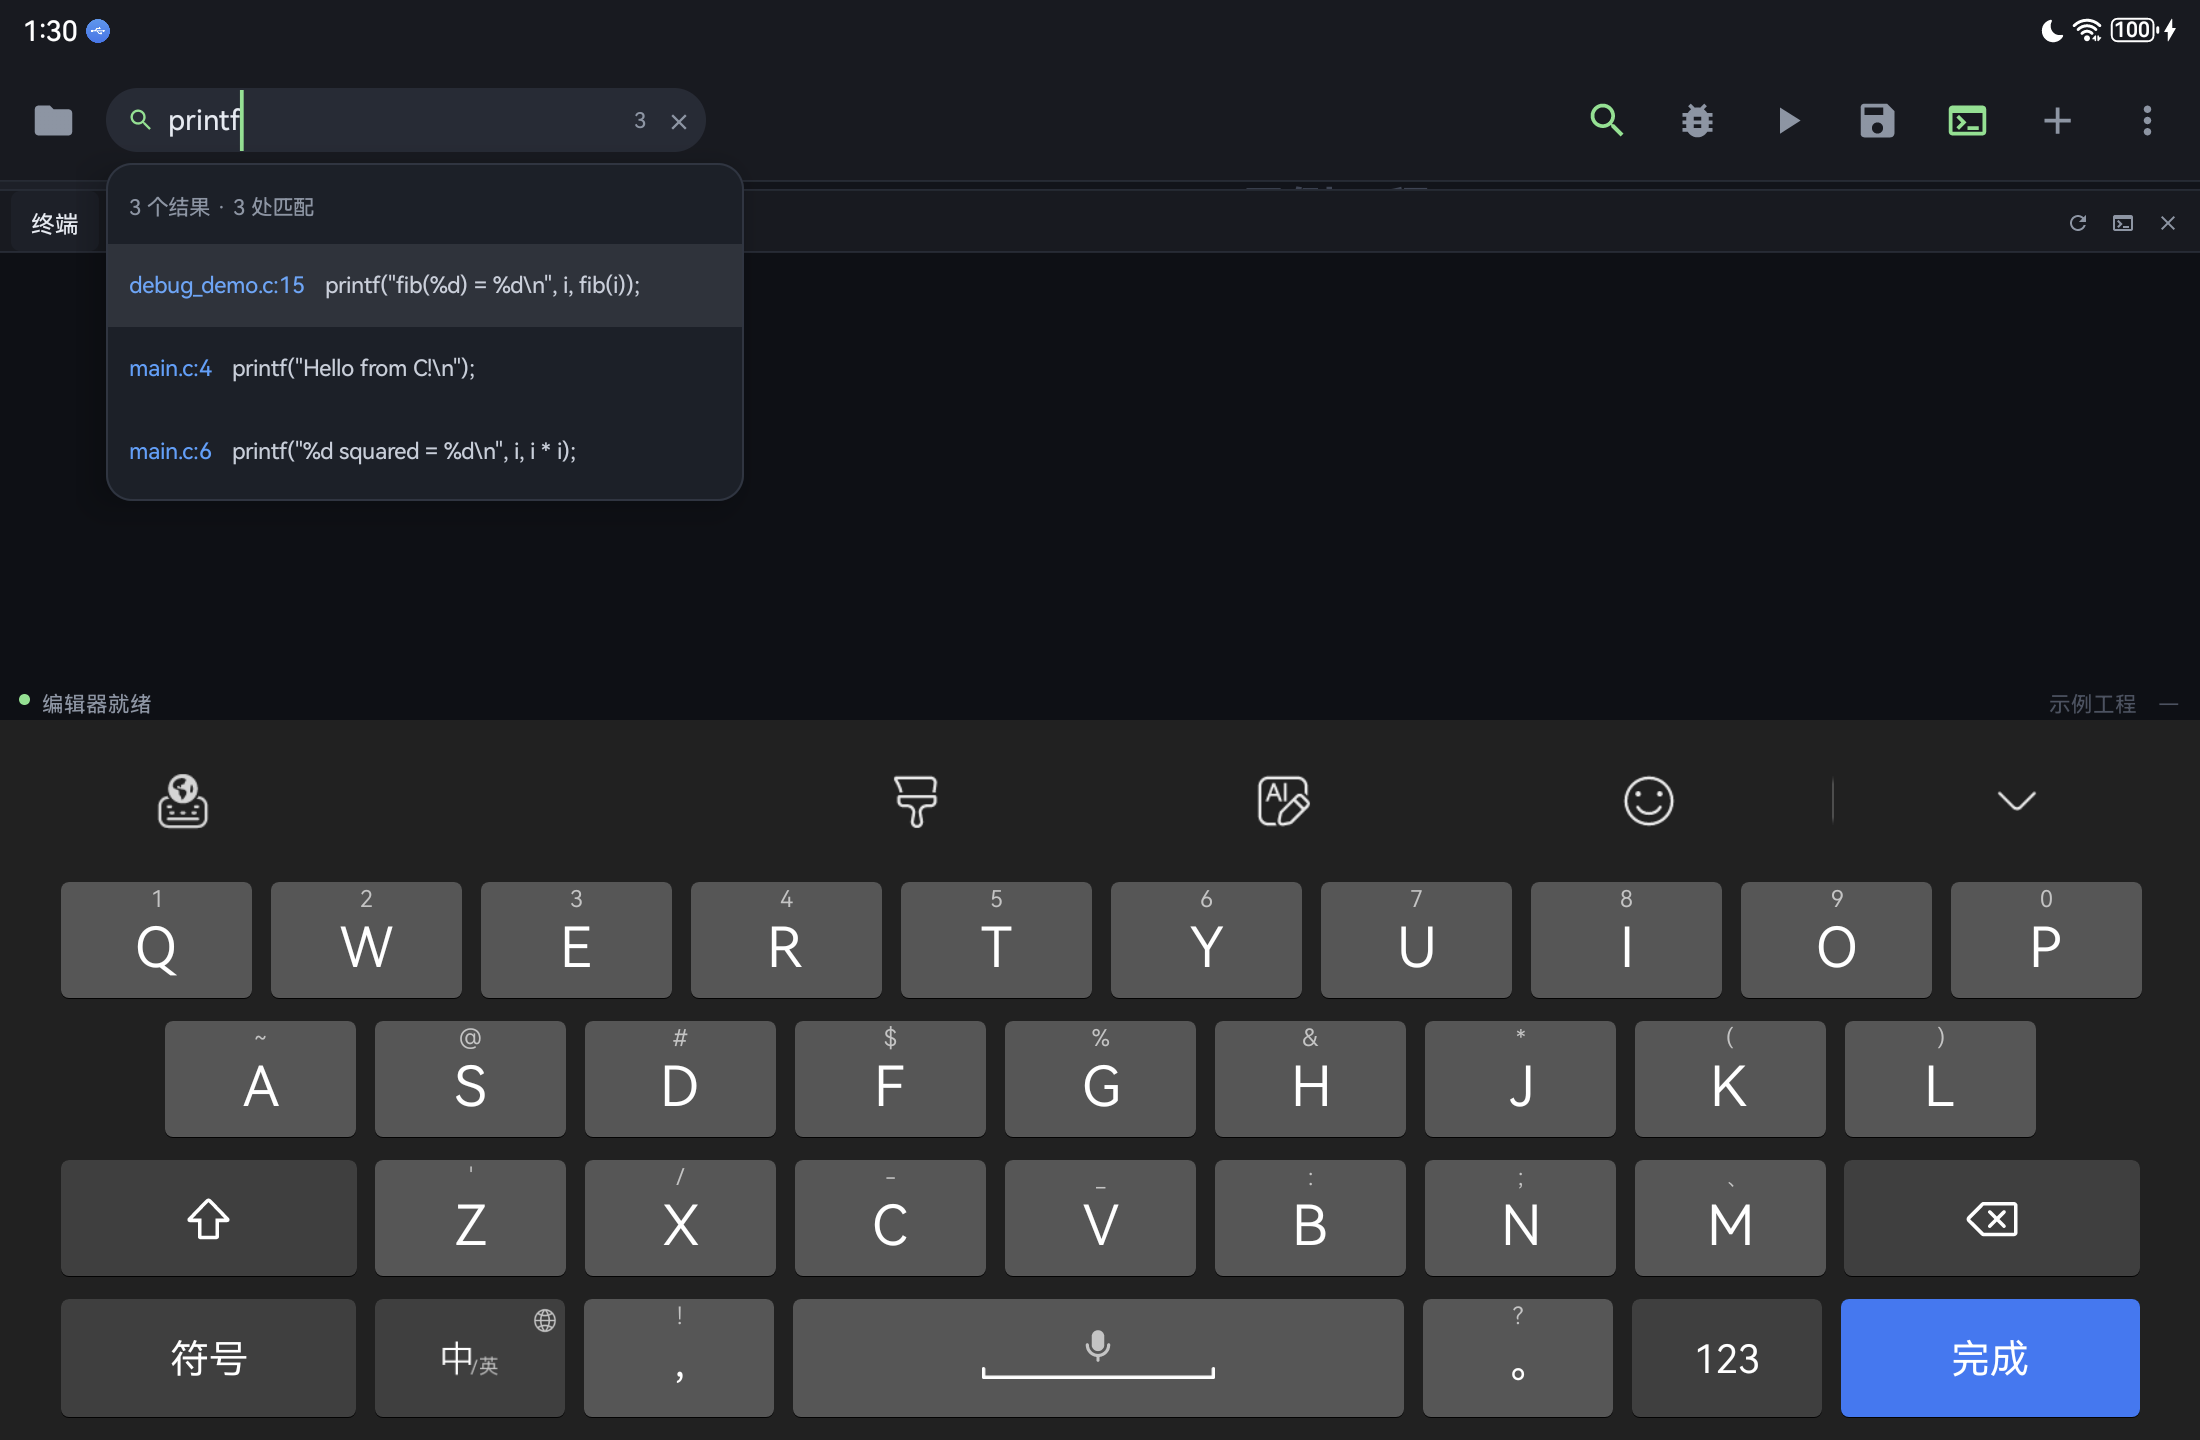
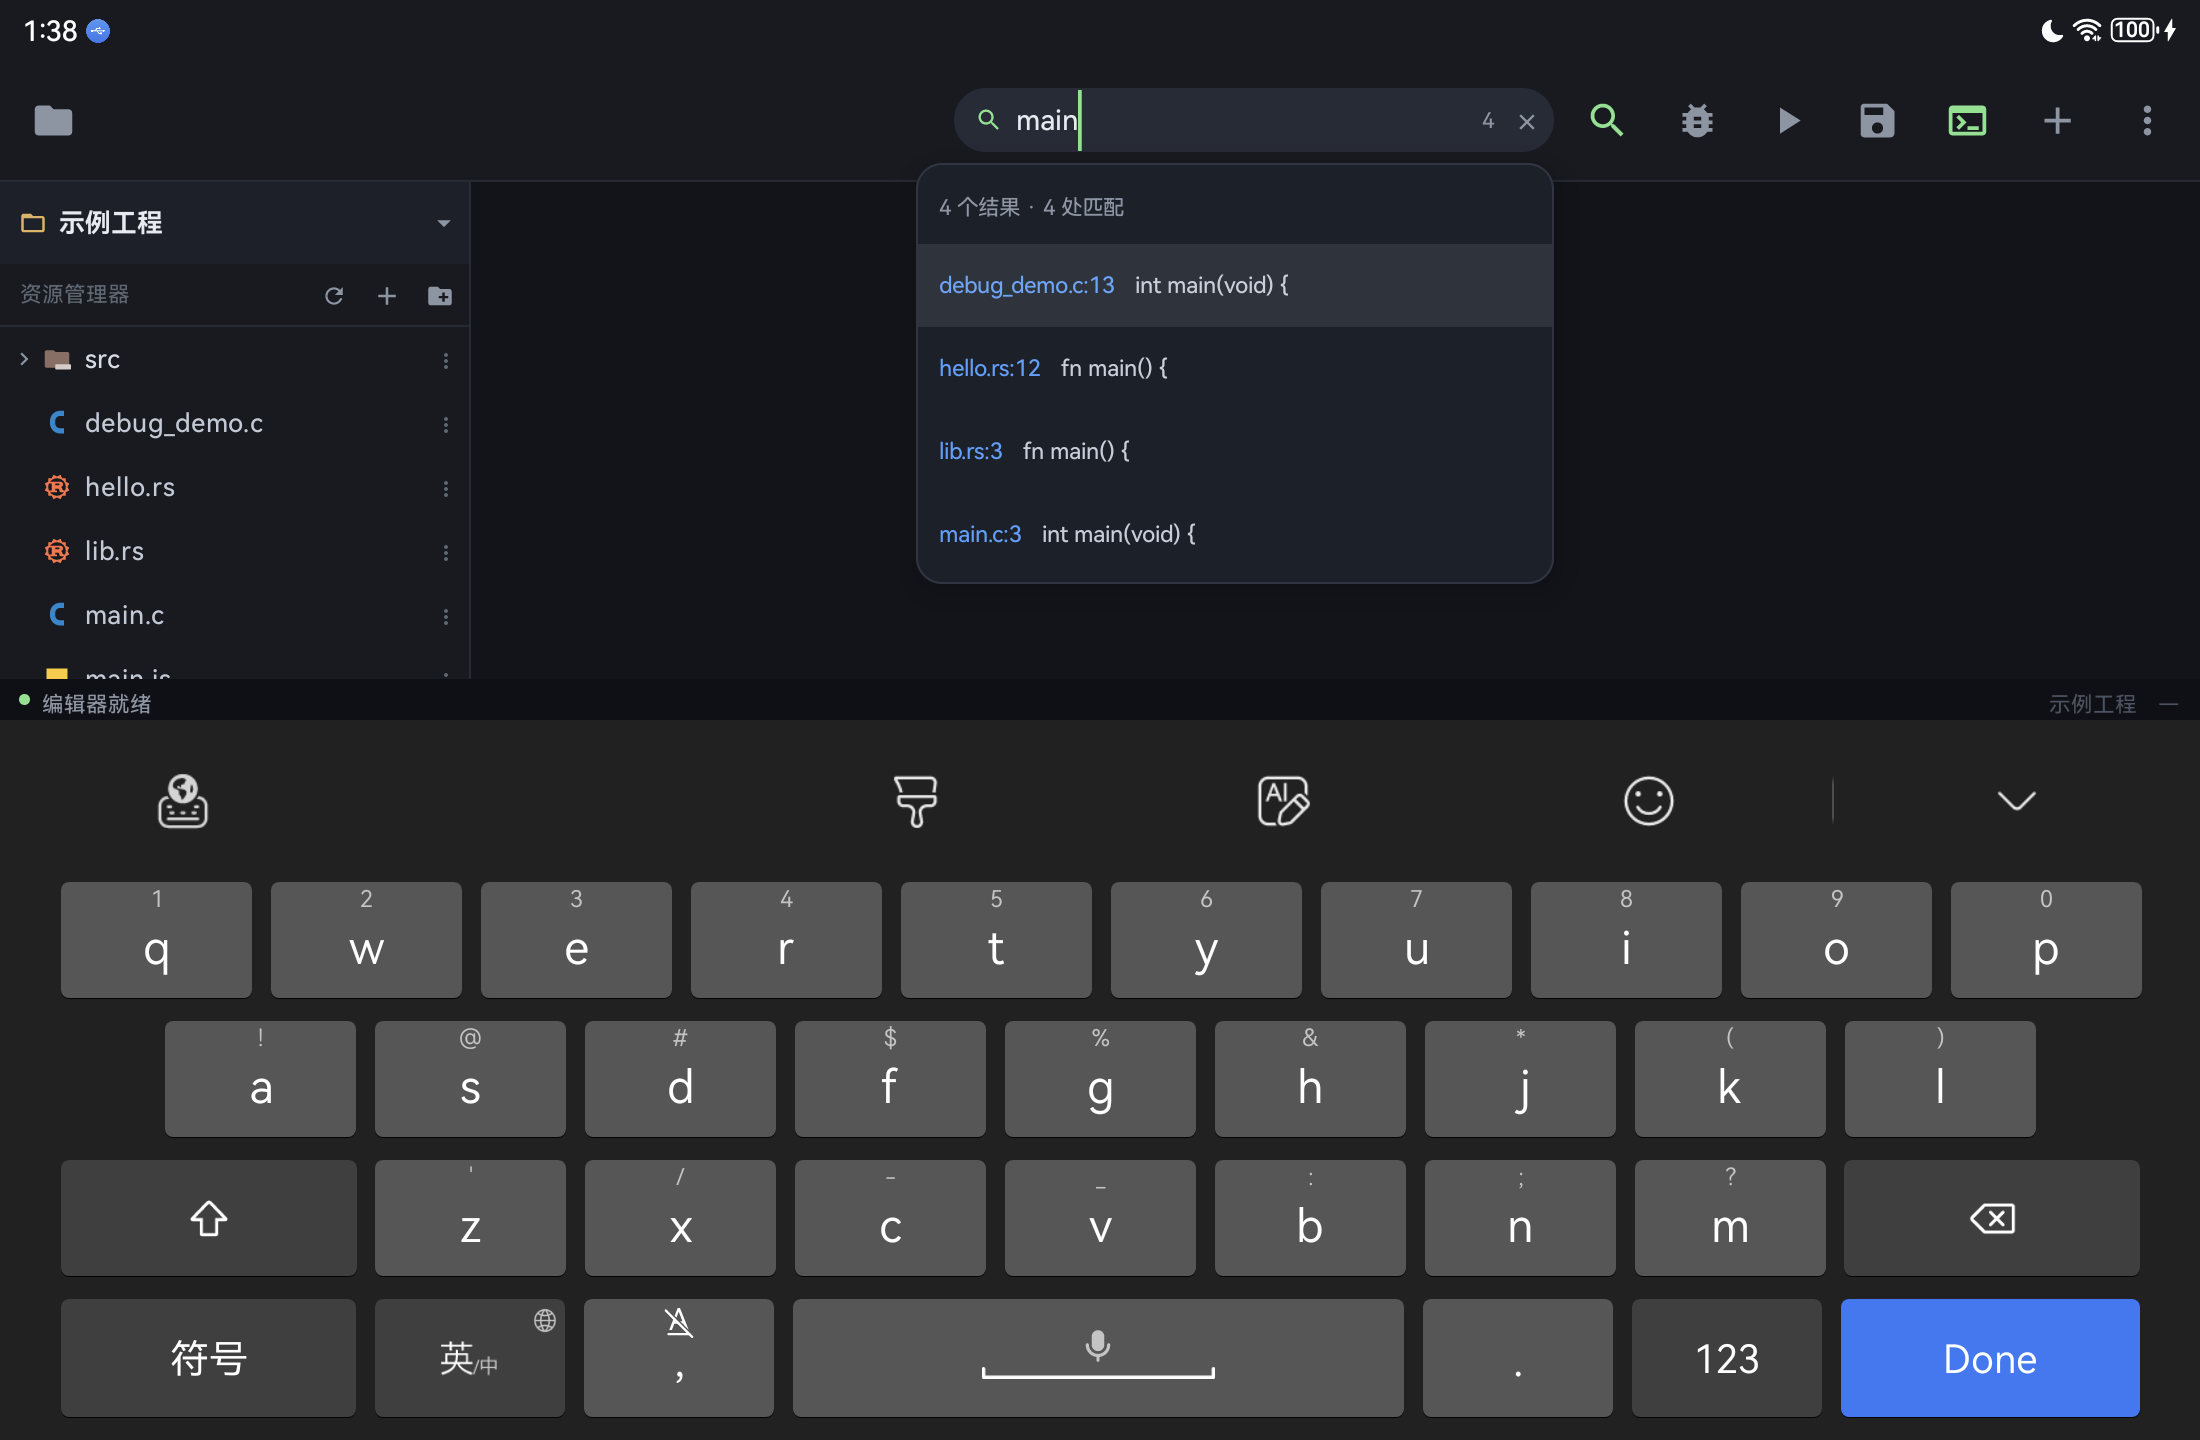
搜索框靠右、键盘弹出时收起底部面板、三点菜单去掉文件操作；补回跳转到定义入口

diff --git a/app/src/main/java/com/codepad/ide/Ui.kt b/app/src/main/java/com/codepad/ide/Ui.kt
@@ -156,11 +156,11 @@ fun IdeScreen(c: IdeController) {
                     if (c.searchOpen) {
                         val searchFocus = remember { FocusRequester() }
                         LaunchedEffect(Unit) { searchFocus.requestFocus() }
-                        Box(Modifier.width(320.dp)) {
+                        Box(Modifier.fillMaxWidth(), contentAlignment = Alignment.CenterEnd) {
                             Row(
                                 verticalAlignment = Alignment.CenterVertically,
                                 modifier = Modifier
-                                    .fillMaxWidth()
+                                    .width(320.dp)
                                     .height(34.dp)
                                     .clip(RoundedCornerShape(17.dp))
                                     .background(Color(0xFF262B36))
@@ -208,7 +208,7 @@ fun IdeScreen(c: IdeController) {
                             if (c.searchResults.isNotEmpty()) {
                                 val gapPx = with(LocalDensity.current) { 40.dp.roundToPx() }
                                 Popup(
-                                    alignment = Alignment.TopStart,
+                                    alignment = Alignment.TopEnd,
                                     offset = IntOffset(0, gapPx),
                                     properties = PopupProperties(focusable = false),
                                 ) {
@@ -358,24 +358,12 @@ fun IdeScreen(c: IdeController) {
                         }
                         DropdownMenu(expanded = menuOpen, onDismissRequest = { menuOpen = false }) {
                             DropdownMenuItem(
-                                text = { Text("新建文件") },
-                                onClick = { menuOpen = false; c.openDialog("newFile", c.project?.dir) },
-                            )
-                            DropdownMenuItem(
-                                text = { Text("新建文件夹") },
-                                onClick = { menuOpen = false; c.openDialog("newFolder", c.project?.dir) },
-                            )
-                            DropdownMenuItem(
-                                text = { Text("重命名当前文件") },
-                                onClick = { menuOpen = false; c.active?.let { c.openDialog("renameNode", it) } },
-                            )
-                            DropdownMenuItem(
-                                text = { Text("删除当前文件") },
-                                onClick = { menuOpen = false; c.active?.let { c.openDialog("deleteNode", it) } },
-                            )
-                            DropdownMenuItem(
                                 text = { Text("切换断点（当前行）") },
                                 onClick = { menuOpen = false; c.js("CP.toggleBreakpointAtCursor()") },
+                            )
+                            DropdownMenuItem(
+                                text = { Text("跳转到定义（F12）") },
+                                onClick = { menuOpen = false; c.js("CP.gotoDefinition()") },
                             )
                             HorizontalDivider(color = Stroke)
                             DropdownMenuItem(
@@ -441,7 +429,7 @@ fun IdeScreen(c: IdeController) {
                 }
             }
             // 键盘弹出时把底部面板整个收起来，把空间还给编辑区
-            if (c.showTerminal && !(imeVisible && c.editorFocused)) {
+            if (c.showTerminal && !(imeVisible && (c.editorFocused || c.searchOpen))) {
                 HorizontalDivider(color = Stroke)
                 BottomDock(c, c.terminalHeight)
             }
